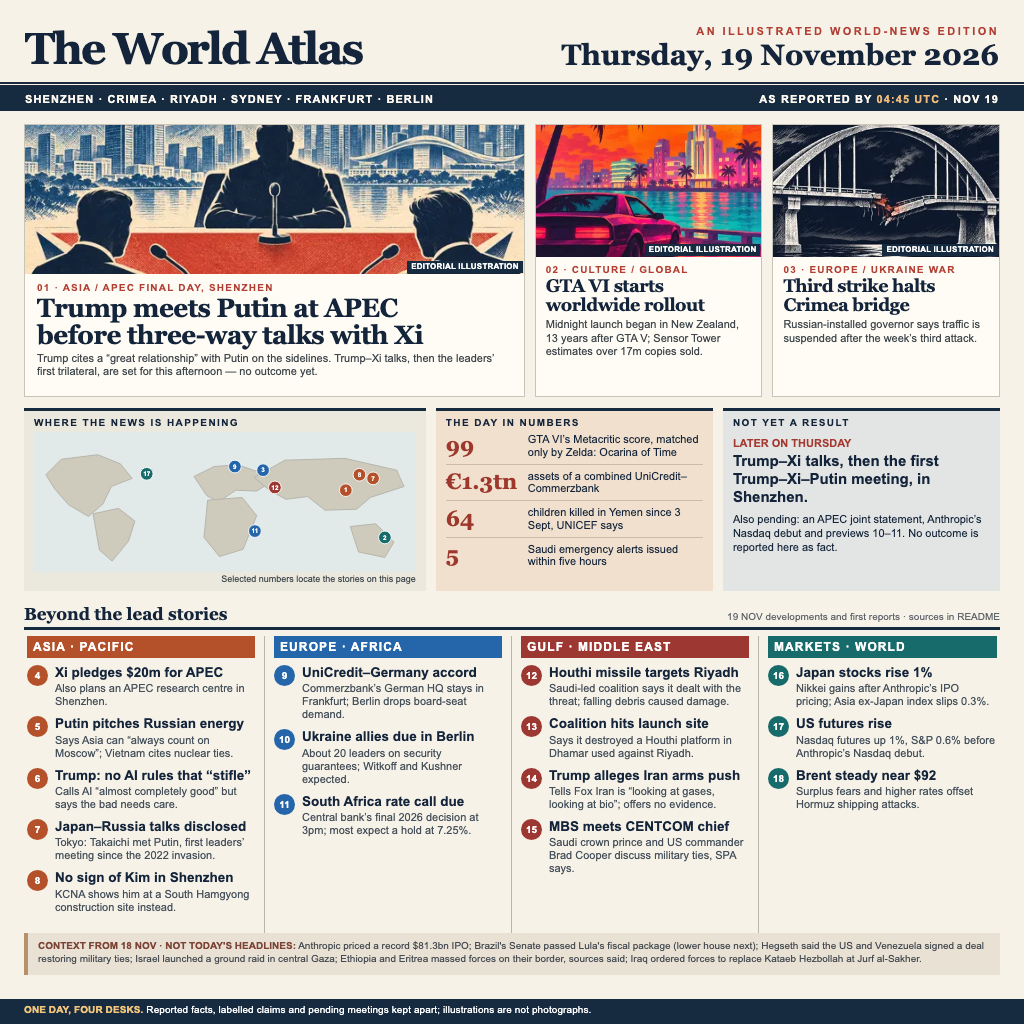
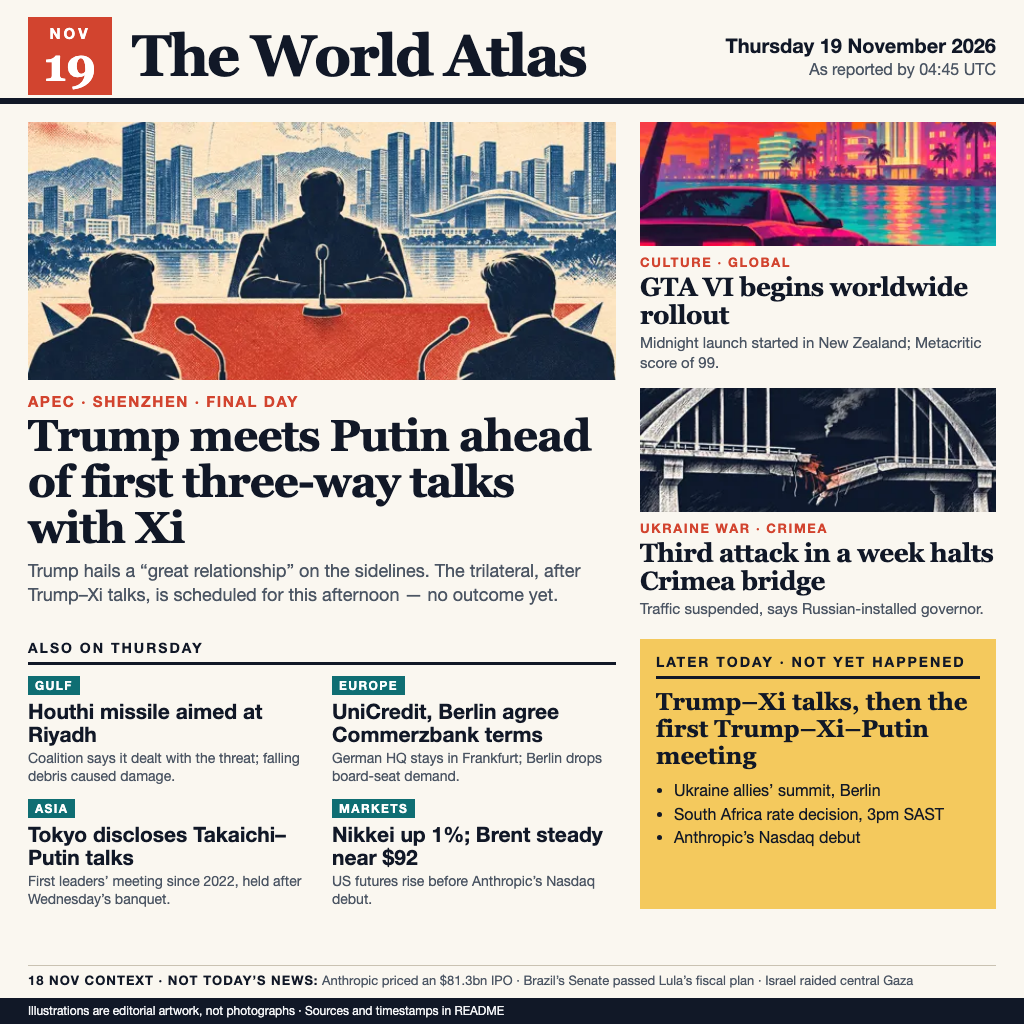
Redesign November 19 front page for thumbnail legibility

diff --git a/poster.html b/poster.html
@@ -2,123 +2,109 @@
 <html lang="en">
 <head>
 <meta charset="utf-8">
-<title>Thursday 19 November 2026 — The World Atlas</title>
+<title>The World Atlas — Thursday 19 November 2026</title>
 <style>
-  * { box-sizing: border-box; }
-  html, body { margin: 0; width: 1024px; height: 1024px; overflow: hidden; }
-  body { color: #14243a; background: #f6f2e8; font-family: Arial, Helvetica, sans-serif; }
-  .mast { height: 87px; padding: 12px 25px 11px; display: flex; align-items: end; justify-content: space-between; border-bottom: 5px double #1a2a40; }
-  .brand { font: bold 44px/1 Georgia,serif; letter-spacing: -2px; }
-  .mast-right { text-align: right; }
-  .eyebrow { color: #b23f34; font: bold 11px/1.5 Arial,sans-serif; letter-spacing: 2.4px; text-transform: uppercase; }
-  .date { font: bold 29px/1.1 Georgia,serif; }
-  .rule { height: 24px; background: #172b40; color: #fffaf1; display: flex; justify-content: space-between; align-items: center; padding: 0 25px; font-size: 11px; font-weight: bold; letter-spacing: 1.1px; }
-  .rule strong { color: #f3bb79; }
-  .heroes { margin: 13px 24px 0; display: grid; grid-template-columns: 2.2fr 1fr 1fr; gap: 10px; height: 273px; }
-  .hero { border: 1px solid #c9c4b8; background: #fffcf5; display: flex; flex-direction: column; overflow: hidden; }
-  .hero img { width: 100%; object-fit: cover; display: block; }
-  .hero.primary img { height: 149px; object-position: center 48%; }
-  .hero:not(.primary) img { height: 132px; }
-  .hero .text { padding: 7px 10px; }
-  .hero.primary .text { padding: 8px 12px; }
-  .hero .tag { color: #b23f34; font-size: 10px; font-weight: bold; letter-spacing: 1.2px; text-transform: uppercase; }
-  .hero h1, .hero h2 { font-family: Georgia,serif; letter-spacing: -.5px; margin: 2px 0 4px; }
-  .hero h1 { font-size: 26px; line-height: 1.02; }
-  .hero h2 { font-size: 18px; line-height: 1.04; }
-  .hero p { color: #40484d; font-size: 11px; line-height: 1.22; margin: 0; }
-  .hero figcaption { position: absolute; right: 1px; bottom: 1px; padding: 2px 4px; background: #172b40; color: #fff; font: bold 8px/1 Arial; letter-spacing: .2px; }
-  .hero figure { position: relative; margin: 0; flex: none; }
-  .middle { margin: 11px 24px 0; height: 183px; display: grid; grid-template-columns: 1.45fr 1fr 1fr; gap: 10px; }
-  .map-card, .snapshot, .clock-card { border-top: 3px solid #172b40; background: #ebe8dd; padding: 6px 10px; overflow: hidden; }
-  .card-heading { font-size: 10px; font-weight: 800; letter-spacing: 1.4px; text-transform: uppercase; }
-  .map-card svg { margin-top: 4px; width: 100%; height: 140px; display: block; background: #e1e9e9; }
-  .map-caption { font-size: 9px; color: #40484d; text-align: right; margin-top: 2px; }
-  .snapshot { background: #f0e0cd; }
-  .snapshot .metric { display: flex; align-items: center; gap: 8px; padding: 5px 0; border-bottom: 1px solid #cbbbaa; }
-  .snapshot .metric:last-child { border-bottom: 0; }
-  .metric b { color: #9e382d; font: bold 22px/1 Georgia,serif; flex: none; width: 74px; }
-  .metric span { font-size: 11px; line-height: 1.16; }
-  .clock-card { background: #e3e5e4; }
-  .clock-card .label { color: #a53830; font-size: 11px; font-weight: 800; margin: 9px 0 3px; }
-  .clock-card .line { font-size: 15px; line-height: 1.2; font-weight: 700; }
-  .clock-card .note { font-size: 11px; line-height: 1.25; margin-top: 7px; }
-  .section-head { margin: 13px 24px 6px; display: flex; align-items: baseline; justify-content: space-between; border-bottom: 3px solid #172b40; padding-bottom: 3px; }
-  .section-head b { font: bold 17px Georgia,serif; }
-  .section-head span { font-size: 10px; color: #60646b; }
-  .regions { margin: 0 18px; display: grid; grid-template-columns: repeat(4, 1fr); height: 297px; }
-  .region { border-right: 1px solid #b8b5ab; padding: 0 9px; }
-  .region:last-child { border-right: 0; }
-  .region h3 { margin: 0 0 7px; padding: 4px 6px; color: #fff; font-size: 12px; letter-spacing: 1.1px; background: var(--accent); }
-  .story { display: grid; grid-template-columns: 23px 1fr; gap: 5px; margin: 0 0 8px; }
-  .story .pin { width: 21px; height: 21px; background: var(--accent); color: white; border-radius: 50%; text-align: center; font-size: 10px; font-weight: 800; line-height: 21px; }
-  .story b { display: block; font-size: 13.5px; line-height: 1.14; }
-  .story small { display: block; font-size: 11px; line-height: 1.18; color: #45505a; margin-top: 2px; }
-  .context { margin: 0 24px; padding: 6px 10px; min-height: 42px; background: #eae1d5; color: #444b51; font-size: 10px; line-height: 1.33; border-left: 4px solid #b79268; }
-  .context b { color: #7b4436; }
-  .foot { position: absolute; left: 0; right: 0; bottom: 0; height: 25px; padding: 5px 24px; background: #172b40; color: #fff; font-size: 10px; letter-spacing: .1px; }
-  .foot b { color: #f2c57c; }
+  :root {
+    --paper: #faf7f0;
+    --ink: #111827;
+    --muted: #4b5563;
+    --red: #d2442f;
+    --teal: #0f6e73;
+    --amber: #f4c95d;
+  }
+  * { box-sizing: border-box; margin: 0; }
+  html, body { width: 1024px; height: 1024px; overflow: hidden; }
+  body { background: var(--paper); color: var(--ink); font-family: "Helvetica Neue", Arial, sans-serif; }
+
+  header { height: 104px; padding: 14px 28px 0; display: flex; align-items: center; gap: 20px; border-bottom: 6px solid var(--ink); }
+  .day { width: 84px; height: 78px; background: var(--red); color: #fff; text-align: center; padding-top: 7px; }
+  .day small { display: block; font-size: 15px; font-weight: 800; letter-spacing: 3px; }
+  .day strong { display: block; font: 700 46px/1 Georgia, serif; }
+  .title { flex: 1; font: 700 58px/1 Georgia, serif; letter-spacing: -2px; }
+  .edition { text-align: right; font-size: 16px; line-height: 1.35; color: var(--muted); }
+  .edition b { color: var(--ink); font-size: 20px; }
+
+  .top { display: grid; grid-template-columns: 588px 1fr; gap: 24px; padding: 18px 28px 0; }
+  .lead img { width: 100%; height: 258px; object-fit: cover; object-position: center 40%; display: block; }
+  .kicker { margin-top: 12px; color: var(--red); font-size: 15px; font-weight: 800; letter-spacing: 1.6px; text-transform: uppercase; }
+  .lead h1 { margin-top: 4px; font: 700 44px/1.04 Georgia, serif; letter-spacing: -1px; }
+  .lead p { margin-top: 8px; font-size: 18px; line-height: 1.3; color: var(--muted); }
+
+  .side { display: flex; flex-direction: column; gap: 16px; }
+  .side article img { width: 100%; height: 124px; object-fit: cover; display: block; }
+  .side h2 { margin-top: 3px; font: 700 26px/1.08 Georgia, serif; letter-spacing: -.5px; }
+  .side p { margin-top: 4px; font-size: 15px; line-height: 1.3; color: var(--muted); }
+  .side .kicker { margin-top: 8px; font-size: 13px; }
+
+  .lower { display: grid; grid-template-columns: 588px 1fr; gap: 24px; padding: 20px 28px 0; }
+  .label { font-size: 14px; font-weight: 800; letter-spacing: 2px; text-transform: uppercase; padding-bottom: 6px; border-bottom: 3px solid var(--ink); }
+  .briefs { display: grid; grid-template-columns: 1fr 1fr; gap: 12px 20px; margin-top: 10px; }
+  .brief .where { display: inline-block; padding: 2px 7px; background: var(--teal); color: #fff; font-size: 12px; font-weight: 800; letter-spacing: 1.4px; }
+  .brief h3 { margin-top: 5px; font-size: 21px; line-height: 1.12; }
+  .brief p { margin-top: 3px; font-size: 14px; line-height: 1.28; color: var(--muted); }
+
+  .pending { background: var(--amber); padding: 14px 16px; }
+  .pending .label { border-color: var(--ink); }
+  .pending h3 { margin-top: 10px; font: 700 24px/1.12 Georgia, serif; }
+  .pending ul { margin-top: 10px; padding-left: 18px; font-size: 16px; line-height: 1.45; }
+
+  .context { position: absolute; left: 28px; right: 28px; bottom: 34px; font-size: 13px; line-height: 1.35; color: var(--muted); border-top: 1px solid #c9c2b2; padding-top: 6px; white-space: nowrap; }
+  .context b { color: var(--ink); letter-spacing: 1px; }
+  footer { position: absolute; left: 0; right: 0; bottom: 0; height: 26px; padding: 6px 28px; background: var(--ink); color: #f3f4f6; font-size: 12px; }
 </style>
 </head>
 <body>
-<header class="mast">
-  <div class="brand">The World Atlas</div>
-  <div class="mast-right"><div class="eyebrow">An illustrated world-news edition</div><div class="date">Thursday, 19 November 2026</div></div>
+<header>
+  <div class="day"><small>NOV</small><strong>19</strong></div>
+  <div class="title">The World Atlas</div>
+  <div class="edition"><b>Thursday 19 November 2026</b><br>As reported by 04:45 UTC</div>
 </header>
-<div class="rule"><span>SHENZHEN · CRIMEA · RIYADH · SYDNEY · FRANKFURT · BERLIN</span><span>AS REPORTED BY <strong>04:45 UTC</strong> · NOV 19</span></div>
-<section class="heroes">
-  <article class="hero primary"><figure><img src="assets/summit.webp" alt="Conceptual illustration of three delegates at a summit table"><figcaption>EDITORIAL ILLUSTRATION</figcaption></figure><div class="text"><div class="tag">01 · Asia / APEC final day, Shenzhen</div><h1>Trump meets Putin at APEC<br>before three-way talks with Xi</h1><p>Trump cites a “great relationship” with Putin on the sidelines. Trump–Xi talks, then the leaders’ first trilateral, are set for this afternoon — no outcome yet.</p></div></article>
-  <article class="hero"><figure><img src="assets/game.webp" alt="Neon waterfront and game controller illustration"><figcaption>EDITORIAL ILLUSTRATION</figcaption></figure><div class="text"><div class="tag">02 · Culture / global</div><h2>GTA VI starts worldwide rollout</h2><p>Midnight launch began in New Zealand, 13 years after GTA V; Sensor Tower estimates over 17m copies sold.</p></div></article>
-  <article class="hero"><figure><img src="assets/bridge.webp" alt="Conceptual engraved illustration of a damaged bridge"><figcaption>EDITORIAL ILLUSTRATION</figcaption></figure><div class="text"><div class="tag">03 · Europe / Ukraine war</div><h2>Third strike halts Crimea bridge</h2><p>Russian-installed governor says traffic is suspended after the week’s third attack.</p></div></article>
+
+<section class="top">
+  <article class="lead">
+    <img src="assets/summit.webp" alt="Editorial illustration of three leaders at a summit table">
+    <div class="kicker">APEC · Shenzhen · final day</div>
+    <h1>Trump meets Putin ahead of first three-way talks with Xi</h1>
+    <p>Trump hails a “great relationship” on the sidelines. The trilateral, after Trump–Xi talks, is scheduled for this afternoon — no outcome yet.</p>
+  </article>
+  <div class="side">
+    <article>
+      <img src="assets/game.webp" alt="Editorial illustration of a neon waterfront">
+      <div class="kicker">Culture · global</div>
+      <h2>GTA VI begins worldwide rollout</h2>
+      <p>Midnight launch started in New Zealand; Metacritic score of 99.</p>
+    </article>
+    <article>
+      <img src="assets/bridge.webp" alt="Editorial illustration of a damaged arch bridge">
+      <div class="kicker">Ukraine war · Crimea</div>
+      <h2>Third attack in a week halts Crimea bridge</h2>
+      <p>Traffic suspended, says Russian-installed governor.</p>
+    </article>
+  </div>
 </section>
-<section class="middle">
-  <div class="map-card"><div class="card-heading">Where the news is happening</div><svg id="map" viewBox="0 0 420 140" aria-label="Map pinning selected lead and regional stories"></svg><div class="map-caption">Selected numbers locate the stories on this page</div></div>
-  <div class="snapshot"><div class="card-heading">The day in numbers</div><div class="metric"><b>99</b><span>GTA VI’s Metacritic score, matched only by Zelda: Ocarina of Time</span></div><div class="metric"><b>€1.3tn</b><span>assets of a combined UniCredit–Commerzbank</span></div><div class="metric"><b>64</b><span>children killed in Yemen since 3 Sept, UNICEF says</span></div><div class="metric"><b>5</b><span>Saudi emergency alerts issued within five hours</span></div></div>
-  <div class="clock-card"><div class="card-heading">Not yet a result</div><div class="label">LATER ON THURSDAY</div><div class="line">Trump–Xi talks, then the first Trump–Xi–Putin meeting, in Shenzhen.</div><div class="note">Also pending: an APEC joint statement, Anthropic’s Nasdaq debut and previews 10–11. No outcome is reported here as fact.</div></div>
+
+<section class="lower">
+  <div>
+    <div class="label">Also on Thursday</div>
+    <div class="briefs">
+      <div class="brief"><span class="where">GULF</span><h3>Houthi missile aimed at Riyadh</h3><p>Coalition says it dealt with the threat; falling debris caused damage.</p></div>
+      <div class="brief"><span class="where">EUROPE</span><h3>UniCredit, Berlin agree Commerzbank terms</h3><p>German HQ stays in Frankfurt; Berlin drops board-seat demand.</p></div>
+      <div class="brief"><span class="where">ASIA</span><h3>Tokyo discloses Takaichi–Putin talks</h3><p>First leaders’ meeting since 2022, held after Wednesday’s banquet.</p></div>
+      <div class="brief"><span class="where">MARKETS</span><h3>Nikkei up 1%; Brent steady near $92</h3><p>US futures rise before Anthropic’s Nasdaq debut.</p></div>
+    </div>
+  </div>
+  <aside class="pending">
+    <div class="label">Later today · not yet happened</div>
+    <h3>Trump–Xi talks, then the first Trump–Xi–Putin meeting</h3>
+    <ul>
+      <li>Ukraine allies’ summit, Berlin</li>
+      <li>South Africa rate decision, 3pm SAST</li>
+      <li>Anthropic’s Nasdaq debut</li>
+    </ul>
+  </aside>
 </section>
-<div class="section-head"><b>Beyond the lead stories</b><span>19 NOV developments and first reports · sources in README</span></div>
-<section class="regions" id="regions"></section>
-<div class="context"><b>CONTEXT FROM 18 NOV · NOT TODAY'S HEADLINES:</b> Anthropic priced a record $81.3bn IPO; Brazil's Senate passed Lula's fiscal package (lower house next); Hegseth said the US and Venezuela signed a deal restoring military ties; Israel launched a ground raid in central Gaza; Ethiopia and Eritrea massed forces on their border, sources said; Iraq ordered forces to replace Kataeb Hezbollah at Jurf al-Sakher.</div>
-<footer class="foot"><b>ONE DAY, FOUR DESKS.</b> Reported facts, labelled claims and pending meetings kept apart; illustrations are not photographs.</footer>
-<script>
-const regions = [
-  {name:'ASIA · PACIFIC', color:'#b4512a', stories:[
-    [4,'Xi pledges $20m for APEC', 'Also plans an APEC research centre in Shenzhen.', [114,22]],
-    [5,'Putin pitches Russian energy', 'Says Asia can “always count on Moscow”; Vietnam cites nuclear ties.', [114,22]],
-    [6,'Trump: no AI rules that “stifle”', 'Calls AI “almost completely good” but says the bad needs care.', [114,22]],
-    [7,'Japan–Russia talks disclosed', 'Tokyo: Takaichi met Putin, first leaders’ meeting since the 2022 invasion.', [139,36]],
-    [8,'No sign of Kim in Shenzhen', 'KCNA shows him at a South Hamgyong construction site instead.', [127,40]],
-  ]},
-  {name:'EUROPE · AFRICA', color:'#2565aa', stories:[
-    [9,'UniCredit–Germany accord', 'Commerzbank’s German HQ stays in Frankfurt; Berlin drops board-seat demand.', [9,50]],
-    [10,'Ukraine allies due in Berlin', 'About 20 leaders on security guarantees; Witkoff and Kushner expected.', [13,52]],
-    [11,'South Africa rate call due', 'Central bank’s final 2026 decision at 3pm; most expect a hold at 7.25%.', [28,-26]],
-  ]},
-  {name:'GULF · MIDDLE EAST', color:'#9d3732', stories:[
-    [12,'Houthi missile targets Riyadh', 'Saudi-led coalition says it dealt with the threat; falling debris caused damage.', [47,25]],
-    [13,'Coalition hits launch site', 'Says it destroyed a Houthi platform in Dhamar used against Riyadh.', [44,15]],
-    [14,'Trump alleges Iran arms push', 'Tells Fox Iran is “looking at gases, looking at bio”; offers no evidence.', [52,32]],
-    [15,'MBS meets CENTCOM chief', 'Saudi crown prince and US commander Brad Cooper discuss military ties, SPA says.', [47,25]],
-  ]},
-  {name:'MARKETS · WORLD', color:'#176b6a', stories:[
-    [16,'Japan stocks rise 1%', 'Nikkei gains after Anthropic’s IPO pricing; Asia ex-Japan index slips 0.3%.', [139,36]],
-    [17,'US futures rise', 'Nasdaq futures up 1%, S&P 0.6% before Anthropic’s Nasdaq debut.', [-74,41]],
-    [18,'Brent steady near $92', 'Surplus fears and higher rates offset Hormuz shipping attacks.', [54,26]],
-  ]}
-];
-document.getElementById('regions').innerHTML = regions.map(r => `<div class="region" style="--accent:${r.color}"><h3>${r.name}</h3>${r.stories.map(([n,h,d]) => `<div class="story"><span class="pin">${n}</span><div><b>${h}</b><small>${d}</small></div></div>`).join('')}</div>`).join('');
-const land = [
-  'M13 40 L30 23 70 18 95 28 108 44 85 53 76 72 60 86 38 73 23 56Z',
-  'M65 83 L93 77 111 91 104 113 86 135 72 123Z',
-  'M176 42 L198 31 224 29 250 38 261 48 245 58 222 57 203 70 190 63Z',
-  'M191 68 L229 65 245 85 230 122 204 130 187 109Z',
-  'M242 43 L276 24 342 22 399 35 407 53 370 65 355 78 320 79 301 64 277 67 259 57Z',
-  'M348 97 L376 94 396 114 386 131 357 125Z'
-];
-const svg=document.getElementById('map');
-svg.innerHTML = `<rect width="420" height="140" fill="#e1e9e9"/>${land.map(d=>`<path d="${d}" fill="#cecbbd" stroke="#b4b2a8" stroke-width="1"/>`).join('')}`;
-const pins = [[1,[114,22],'#b4512a'],[2,[151,-34],'#176b6a'],[3,[36,45],'#2565aa'],[7,[140,36],'#b4512a'],[8,[127,40],'#b4512a'],[9,[9,50],'#2565aa'],[11,[28,-26],'#2565aa'],[12,[47,25],'#9d3732'],[17,[-74,41],'#176b6a']];
-const project=([lon,lat])=>[Math.round((lon+180)*420/360),Math.round((83-lat)*140/150)];
-svg.innerHTML += pins.map(([n,coord,c])=>{const [x,y]=project(coord);return `<g><circle cx="${x}" cy="${y}" r="7" fill="${c}" stroke="#fff" stroke-width="1"/><text x="${x}" y="${y+2.5}" fill="#fff" font-family="Arial" font-size="7" font-weight="bold" text-anchor="middle">${n}</text></g>`}).join('');
-</script>
+
+<div class="context"><b>18 NOV CONTEXT · NOT TODAY’S NEWS:</b> Anthropic priced an $81.3bn IPO · Brazil’s Senate passed Lula’s fiscal plan · Israel raided central Gaza</div>
+<footer>Illustrations are editorial artwork, not photographs · Sources and timestamps in README</footer>
 </body>
 </html>

diff --git a/README.md b/README.md
@@ -4,7 +4,7 @@
 [![rank](https://make.fun/badge/news-image-20261119/cypher-dex/news-image-20261119/rank.svg)](https://make.fun/bounty/news-image-20261119/leaderboard)
 [![reward](https://make.fun/badge/news-image-20261119/cypher-dex/news-image-20261119/reward.svg)](https://make.fun/bounty/news-image-20261119)
 
-An original 1024 × 1024 illustrated newspaper front page for news reported by **04:45 UTC on 19 November 2026**. Three lead stories, a numbers panel, a geographic index, four regional desks and a clearly labelled strip for 18 November context. Meetings scheduled later on the 19th are marked as pending, not outcomes. Claims about weapons or attacks are attributed to the speaker or reporting authority. `poster.html` is the editable source; its three generated editorial illustrations are in `assets/`. They are not news photographs.
+An original 1024 × 1024 illustrated front page for news reported by **04:45 UTC on 19 November 2026**, designed to stay legible as a 300 px thumbnail. It has one dominant lead, two illustrated secondary stories, four regional briefs, an amber "later today" panel for events that had not happened at the cut-off, and a small one-line label for 18 November context. Attacks and damage are attributed to the authority that reported them. `poster.html` is static HTML/CSS with no scripts. Its three generated editorial illustrations are in `assets/`; they are not news photographs.
 
 ## Run
 
@@ -18,15 +18,14 @@ The submission runs without network access and copies the committed `entry.png` 
 
 | Story | Evidence and date |
 |---|---|
-| Lead: Trump–Putin sideline meeting (04:38 GMT post); Trump–Xi talks and the first trilateral still scheduled; Xi's $20m pledge and Shenzhen research centre; Trump on AI; Kim absent, KCNA site photos | [Guardian live, 19 Nov](https://www.theguardian.com/world/live/2026/nov/19/apec-summit-trump-xi-putin-meeting-shenzhen-china), [Nikkei live, 19 Nov](https://asia.nikkei.com/politics/international-relations/apec/apec-live-crunch-day-begins-with-trump-set-to-meet-xi-putin). Neither the Trump–Xi bilateral nor the trilateral had happened at the cut-off. |
-| Putin's "always count on Moscow" energy pitch; Russia–Vietnam energy cooperation (Vietnam readout) | [Nikkei live, 19 Nov](https://asia.nikkei.com/politics/international-relations/apec/apec-live-crunch-day-begins-with-trump-set-to-meet-xi-putin) |
-| Japan–Russia talks: held after Wednesday's banquet, disclosed Thursday; first leaders' meeting since 2022 | [Reuters via The Straits Times, 19 Nov](https://www.straitstimes.com/asia/japan-says-pm-takaichi-putin-held-talks-at-apec-summit-in-china), [Nikkei live](https://asia.nikkei.com/politics/international-relations/apec/apec-live-crunch-day-begins-with-trump-set-to-meet-xi-putin) |
-| GTA VI rollout from New Zealand; Metacritic 99; Sensor Tower's 17m-copy estimate | [Reuters syndication, 19 Nov](https://live.euronext.com/en/financial-news/grand-theft-auto-vi-draws-rave-reviews-gamers-enter-vice-city) |
-| Third Crimean bridge attack this week, traffic suspended | [Reuters via The Straits Times, 19 Nov](https://www.straitstimes.com/world/europe/third-attack-in-a-week-suspends-traffic-over-crimean-bridge-russian-official-says) |
-| UniCredit and German government reach broad accord on Commerzbank; €1.3tn combined assets | [Reuters, 19 Nov](https://live.euronext.com/en/financial-news/exclusive-unicredit-and-germany-reach-broad-agreement-commerzbank-takeover) |
-| Houthi missile toward Riyadh (coalition "responded to"/"dealt with" it; debris damage), Dhamar launch platform, five Saudi alerts in five hours, MBS–CENTCOM meeting, UNICEF's 64 children, Trump's Iran weapons allegation | [Al Jazeera live, 19 Nov](https://www.aljazeera.com/amp/news/liveblog/2026/11/19/iran-war-live-saudi-led-coalition-strikes-yemen-ships-on-fire-in-hormuz), [Kuwait Times/KUNA, 19 Nov](https://kuwaittimes.com/article/53960/world/debris-causes-damage-in-riyadh-after-coalition-tackles-houthi-missile/). Trump's claim is an **allegation** made without evidence; launch-site destruction is the coalition's claim. |
-| Japan stocks, Asia ex-Japan, US futures; Brent's early session | [Reuters market report, 19 Nov](https://live.euronext.com/en/financial-news/stocks-rise-after-anthropic-ipo-pricing-sets-stage-blockbuster-debut), [Reuters oil snapshot, 19 Nov](https://live.euronext.com/en/financial-news/oil-prices-steady-supply-surplus-softens-sentiment-though-gulf-war-supports) |
-| Berlin Ukraine summit and South African rate decision scheduled later Thursday | [DW preview](https://www.dw.com/en/coalition-of-the-willing-meets-in-berlin-europe-remains-committed-to-ukraine/a-79974996), [EWN, 19 Nov](https://www.ewn.co.za/2026/11/19/economists-expect-reserve-bank-to-keep-interest-rates-unchanged), [BusinessTech](https://businesstech.co.za/news/trending/884684/what-to-expect-from-interest-rates-this-week/) |
-| Anthropic IPO pricing, Brazil fiscal package, US–Venezuela deal, central Gaza raid, Ethiopia–Eritrea build-up, Iraq's Jurf al-Sakher order: **18 Nov context only** | [AP via PBS](https://www.pbs.org/newshour/economy/anthropic-prices-its-ipo-at-83-per-share-valuing-the-ai-giant-at-1-5-trillion), [AP](https://apnews.com/article/brazil-fiscal-measures-lula-5fe209c6b39c317e7106abde2bf35c3f), [AP](https://apnews.com/article/hegseth-venezuela-maduro-trump-e02dd6173e575c644a37dd417d84296d), [Reuters via Al-Monitor](https://www.al-monitor.com/originals/2026/11/israel-launches-ground-operation-central-gaza-dozens-flee), [Reuters via Al-Monitor](https://www.al-monitor.com/originals/2026/11/ethiopia-and-eritrea-amass-forces-along-border-heightening-war-fears-sources-say), [Arab News, 19 Nov](https://www.arabnews.jp/en/middle-east/iraq-moves-to-replace-kataeb-hezbollah-in-stronghold-refers-oil-abuse-probe-to-courts-3001509) |
+| Lead: Trump–Putin sideline meeting (Guardian post 04:38 GMT), "great relationship" quote; Trump–Xi talks and first trilateral still scheduled | [Guardian live, 19 Nov](https://www.theguardian.com/world/live/2026/nov/19/apec-summit-trump-xi-putin-meeting-shenzhen-china), [Nikkei live, 19 Nov](https://asia.nikkei.com/politics/international-relations/apec/apec-live-crunch-day-begins-with-trump-set-to-meet-xi-putin). Neither the Trump–Xi bilateral nor the trilateral had happened at the cut-off. |
+| GTA VI rollout from New Zealand; Metacritic 99 | [Reuters syndication, 19 Nov](https://live.euronext.com/en/financial-news/grand-theft-auto-vi-draws-rave-reviews-gamers-enter-vice-city) |
+| Third Crimean bridge attack this week, traffic suspended (Russian-installed governor) | [Reuters via The Straits Times, 19 Nov](https://www.straitstimes.com/world/europe/third-attack-in-a-week-suspends-traffic-over-crimean-bridge-russian-official-says) |
+| Gulf: Houthi missile toward Riyadh; coalition "dealt with" the threat; debris caused damage | [Kuwait Times/KUNA, 19 Nov](https://kuwaittimes.com/article/53960/world/debris-causes-damage-in-riyadh-after-coalition-tackles-houthi-missile/), [Al Jazeera live, 19 Nov](https://www.aljazeera.com/amp/news/liveblog/2026/11/19/iran-war-live-saudi-led-coalition-strikes-yemen-ships-on-fire-in-hormuz) |
+| Europe: UniCredit and German government agree key Commerzbank terms; Frankfurt HQ, board seats | [Reuters, 19 Nov](https://live.euronext.com/en/financial-news/exclusive-unicredit-and-germany-reach-broad-agreement-commerzbank-takeover) |
+| Asia: Takaichi–Putin talks held after Wednesday's banquet, disclosed Thursday; first leaders' meeting since 2022 | [Reuters via The Straits Times, 19 Nov](https://www.straitstimes.com/asia/japan-says-pm-takaichi-putin-held-talks-at-apec-summit-in-china), [Nikkei live](https://asia.nikkei.com/politics/international-relations/apec/apec-live-crunch-day-begins-with-trump-set-to-meet-xi-putin) |
+| Markets: Nikkei +1%, US futures up before Anthropic's debut; Brent $92.12 at 02:37 GMT | [Reuters market report, 19 Nov](https://live.euronext.com/en/financial-news/stocks-rise-after-anthropic-ipo-pricing-sets-stage-blockbuster-debut), [Reuters oil snapshot, 19 Nov](https://live.euronext.com/en/financial-news/oil-prices-steady-supply-surplus-softens-sentiment-though-gulf-war-supports) |
+| Later today, not results: Berlin Ukraine allies' summit, South Africa rate decision at 3pm SAST, Anthropic's Nasdaq debut | [DW preview](https://www.dw.com/en/coalition-of-the-willing-meets-in-berlin-europe-remains-committed-to-ukraine/a-79974996), [EWN, 19 Nov](https://www.ewn.co.za/2026/11/19/economists-expect-reserve-bank-to-keep-interest-rates-unchanged), [Reuters market report](https://live.euronext.com/en/financial-news/stocks-rise-after-anthropic-ipo-pricing-sets-stage-blockbuster-debut) |
+| Anthropic IPO pricing, Brazil Senate fiscal vote, central Gaza raid: **18 Nov context only** | [AP via PBS](https://www.pbs.org/newshour/economy/anthropic-prices-its-ipo-at-83-per-share-valuing-the-ai-giant-at-1-5-trillion), [AP](https://apnews.com/article/brazil-fiscal-measures-lula-5fe209c6b39c317e7106abde2bf35c3f), [Reuters via Al-Monitor](https://www.al-monitor.com/originals/2026/11/israel-launches-ground-operation-central-gaza-dozens-flee) |
 
-The newsroom label prevents events from the prior day or scheduled later meetings being presented as completed news of the 19th. All headings and story cards were typeset in HTML so they remain sharp at the competition resolution.
+The 18 Nov label and the "later today" panel keep prior-day events and scheduled meetings from reading as completed news of the 19th. All text is HTML type, so it stays sharp at full resolution.
